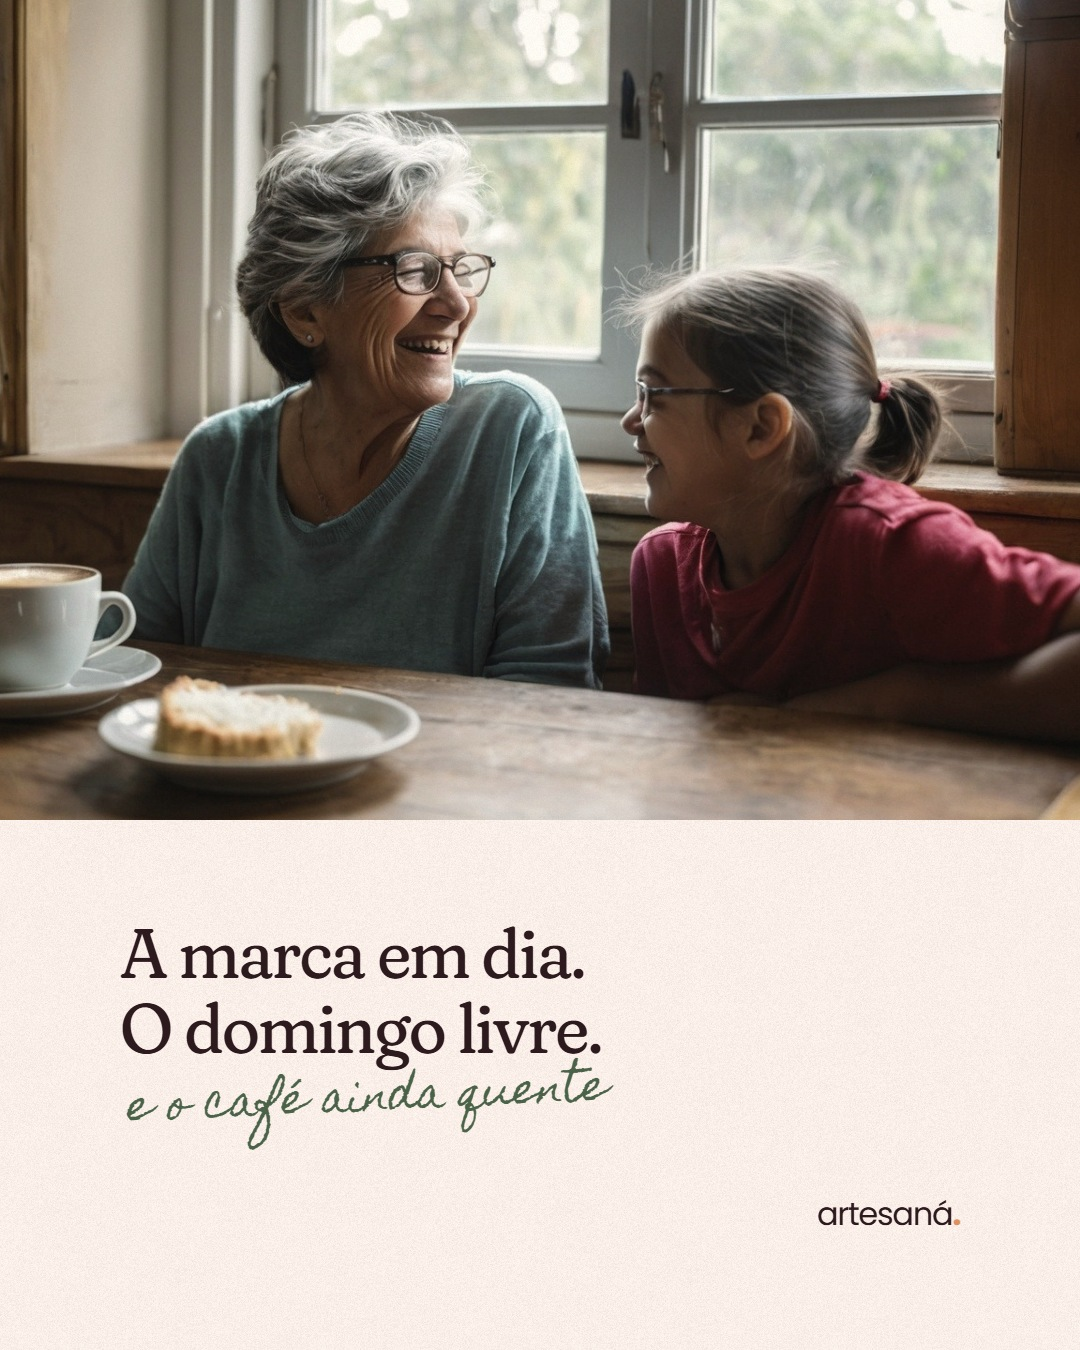
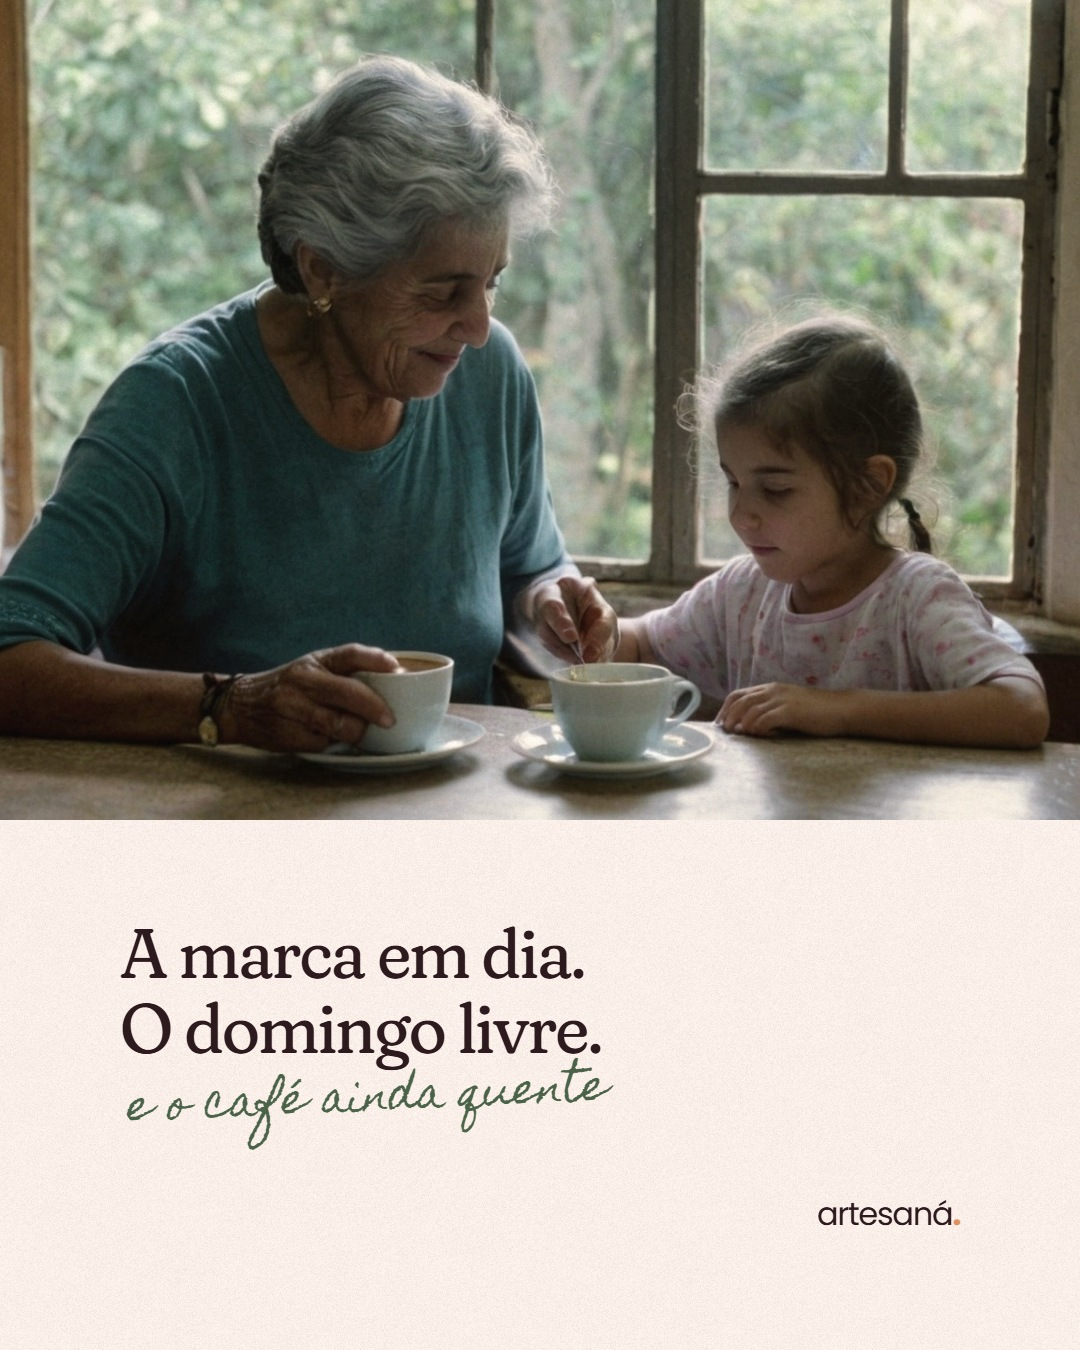
feat(marketing): foto da avó e neta refeita com cara de foto de família

diff --git a/marketing/instagram/index.html b/marketing/instagram/index.html
@@ -216,7 +216,7 @@ Conhece alguém que faz sabonete, vela, cosmético natural, comida ou artesanato
       <div class="imagens">
         <figure>
           <figcaption>Imagem</figcaption>
-          <img src="./atelie-6.jpg" alt="Avó de cabelos grisalhos e óculos ri com a neta à mesa da cozinha, com café e uma fatia de bolo, diante da janela. Texto: A marca em dia. O domingo livre. E o café ainda quente." loading="lazy">
+          <img src="./atelie-6.jpg" alt="Avó de cabelos grisalhos mexe o café da neta à mesa da cozinha, as duas de cabeça baixa sorrindo, com a janela e as árvores atrás. Texto: A marca em dia. O domingo livre. E o café ainda quente." loading="lazy">
           <div class="acoes"><a class="botao" href="./atelie-6.jpg" download="artesana-atelie-6.jpg">Baixar</a></div>
         </figure>
       </div>
@@ -233,7 +233,7 @@ Grátis na versão beta. O link está na bio.
       <div class="acoes"><button class="botao" type="button" data-copiar="legenda-6">Copiar legenda</button></div>
       <details>
         <summary>Texto alternativo das imagens</summary>
-        <pre class="caixa" id="alt-6-0">Avó de cabelos grisalhos e óculos ri com a neta à mesa da cozinha, com café e uma fatia de bolo, diante da janela. Texto: A marca em dia. O domingo livre. E o café ainda quente.</pre>
+        <pre class="caixa" id="alt-6-0">Avó de cabelos grisalhos mexe o café da neta à mesa da cozinha, as duas de cabeça baixa sorrindo, com a janela e as árvores atrás. Texto: A marca em dia. O domingo livre. E o café ainda quente.</pre>
       </details>
     </article>
 

diff --git a/marketing/instagram/legendas.md b/marketing/instagram/legendas.md
@@ -154,7 +154,7 @@ Grátis na versão beta. O link está na bio.
 
 **Texto alternativo**
 
-- `atelie-6.jpg`: Avó de cabelos grisalhos e óculos ri com a neta à mesa da cozinha, com café e uma fatia de bolo, diante da janela. Texto: A marca em dia. O domingo livre. E o café ainda quente.
+- `atelie-6.jpg`: Avó de cabelos grisalhos mexe o café da neta à mesa da cozinha, as duas de cabeça baixa sorrindo, com a janela e as árvores atrás. Texto: A marca em dia. O domingo livre. E o café ainda quente.
 
 ---
 
